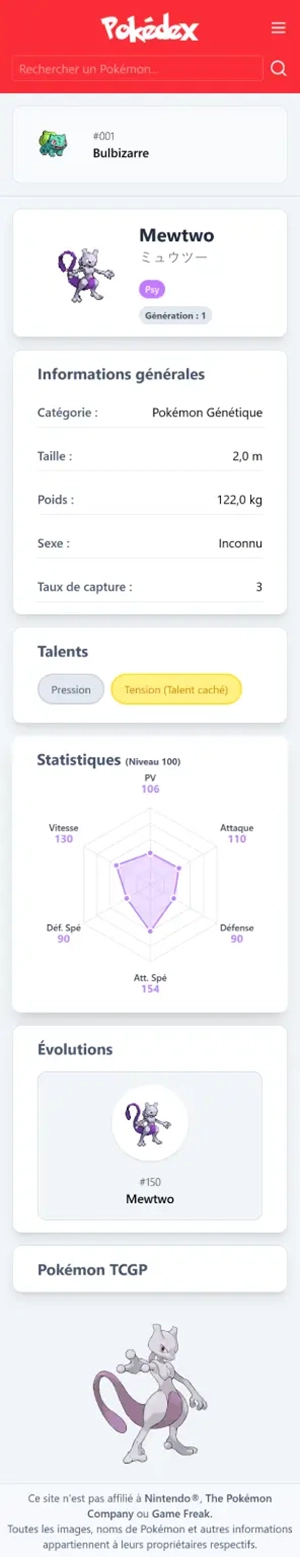
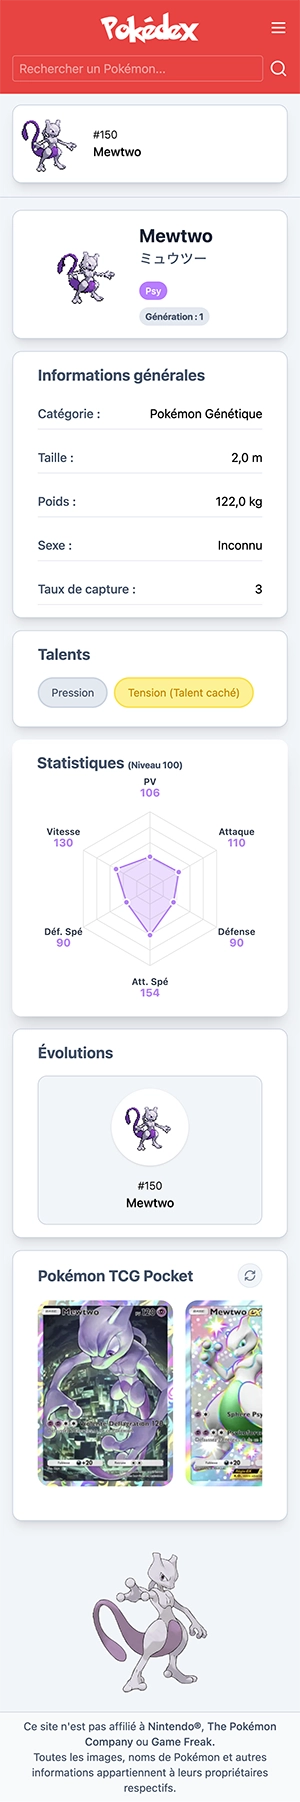
Update README.md file.

Changed region(s): [[0.0, 0.0, 1.0, 1.0], [0.03, 0.5857, 0.06, 0.6474]]

diff --git a/README.md b/README.md
@@ -2,7 +2,13 @@
 
 ## Description
 
-This project is a responsive Pokédex web application built using React. It serves as a training exercise to strengthen my understanding of React and API integration. The app is in French and uses two public APIs: [Tyradex](https://tyradex.vercel.app/) for Pokémon data in French and [PokeAPI](https://pokeapi.co/) for high-resolution images.
+This project is a responsive Pokédex web application built using React. It serves as a training exercise to strengthen my understanding of React, component architecture, API integration and asynchronous JavaScript.
+
+The app is in French and uses multiple public APIs:
+
+- [Tyradex](https://tyradex.app/) for French Pokémon data.
+- [PokeAPI](https://pokeapi.co/) for Pokémon sprites and artwork.
+- [TCGdex](https://www.tcgdex.net/) for Pokémon TCG Pocket card data and images.
 
 I built everything from scratch without using pre-made components, to better practice and improve my React skills.
 
@@ -12,12 +18,16 @@ Features include:
 - Pokémon listing per selected region.
 - Clickable Pokémon to view detailed information.
 - Search functionality for quick lookup.
+- Pokémon sprite and artwork display.
+- Pokémon TCG Pocket card display when matching cards are available.
 
 ## Objectives
 
 - Gain practical experience with React and component architecture.
 - Work with asynchronous JavaScript: fetch(), async/await.
-- Manage French-language API data (Tyradex) alongside image retrieval (PokeAPI).
+- Manage French-language API data from Tyradex.
+- Retrieve and display Pokémon images using PokeAPI assets.
+- Integrate Pokémon TCG Pocket card data using TCGdex.
 - Build a responsive, user-friendly interface with reusable components.
 - Encourage clean, maintainable code practices and state handling.
 
